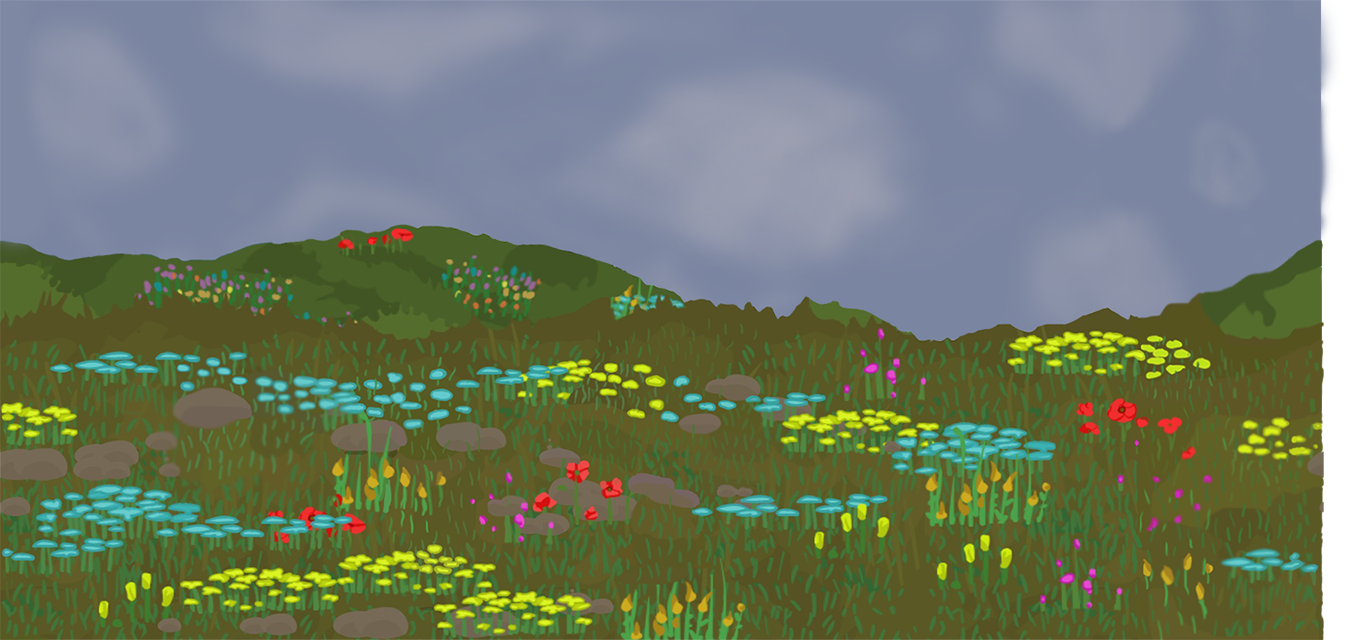
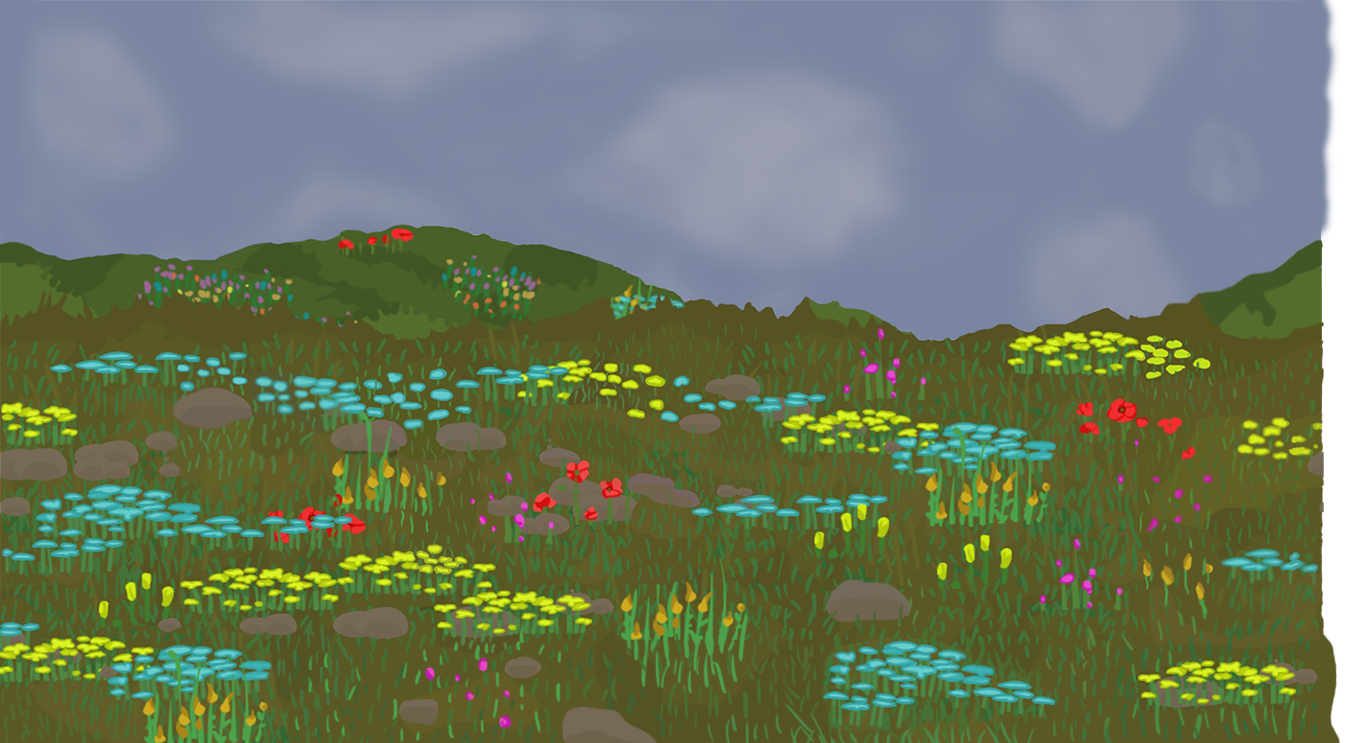
Augmentation en y de la map

diff --git a/core/src/projetTuteure/Camera.java b/core/src/projetTuteure/Camera.java
@@ -85,9 +85,11 @@ public class Camera {
 				else if(deplacementTotalCam.x + deplacementCam.x + MyGdxGame.LARGEUR_ECRAN > new Vector2(map.getTailleMap()).scl(map.getTailleTile()).x)
 					deplacementCam.x = 0;
 				
-				if(deplacementTotalCam.y + deplacementCam.y < 0)
+				System.out.println( MyGdxGame.HAUTEUR_ECRAN - new Vector2(map.getTailleMap()).scl(map.getTailleTile()).y);
+				
+				if(deplacementTotalCam.y + deplacementCam.y > 0)
 					deplacementCam.y = 0;
-				else if(deplacementTotalCam.y + deplacementCam.y > new Vector2(map.getTailleMap()).scl(map.getTailleTile()).y)
+				else if(deplacementTotalCam.y + deplacementCam.y < MyGdxGame.HAUTEUR_ECRAN - new Vector2(map.getTailleMap()).scl(map.getTailleTile()).y)
 					deplacementCam.y = 0;
 					
 				if(!persoDehors)
